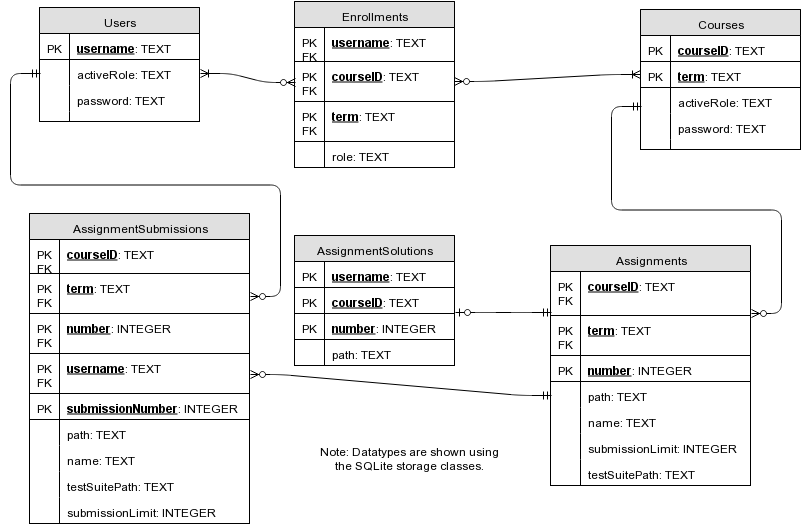
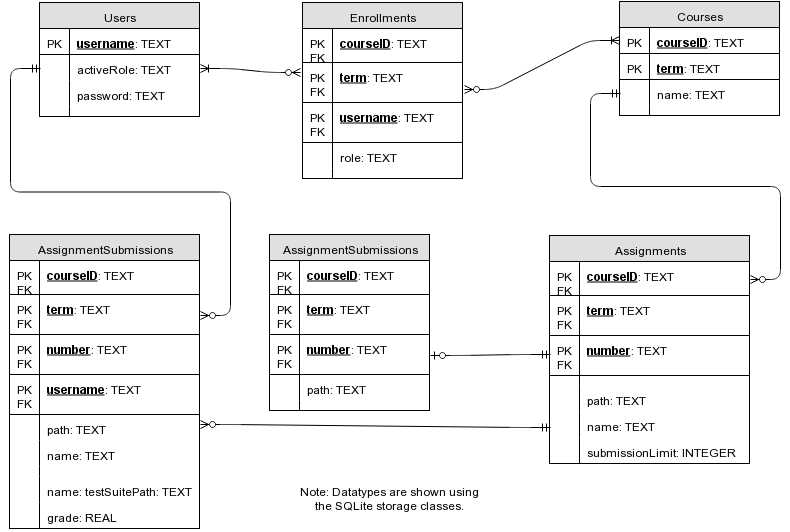
Final DBSchema fix

diff --git a/Documentation/DatabaseSchema.html b/Documentation/DatabaseSchema.html
@@ -11,21 +11,17 @@
     <dl class="DatabaseSchema">
 
         <dt>User</dt>
-            <dd><b>Description:</b>    </dd>   
+            <dd><b>Description: A student, marker, or instructor.</b>    </dd>   
                      
             <dd><b>Primary Key:</b>     
                 <ul>
-                    <li></li>    
+                    <li>username</li>    
                 </ul>
-            </dd>
-            <dd><b>Referential Constraints:</b> 
-                <ul>
-                    <li></li>    
-                </ul> 
             </dd>
             <dd><b>Additional Fields:</b>
                 <ul>
-                    <li></li>    
+                    <li>activeRole</li>
+		    <li>password</li>    
                 </ul> 
              </dd>
 
@@ -33,17 +29,14 @@
             <dd><b>Description:</b>     </dd>            
             <dd><b>Primary Key:</b>     
                 <ul>
-                    <li></li>    
-                </ul> 
-            </dd>
-            <dd><b>Referential Constraints:</b>  
-                <ul>
-                    <li></li>    
+                    <li>courseID</li>
+                    <li>term</li>   
                 </ul> 
             </dd>
             <dd><b>Additional Fields:</b>     
                 <ul>
-                    <li></li>    
+                    <li></li>   
+                    <li>name</li>   
                 </ul> 
             </dd>
             
@@ -54,7 +47,7 @@
                     <li></li>    
                 </ul> 
             </dd>
-            <dd><b>Referential Constraints:</b>  
+            <dd><b>Foreign Keys:</b>  
                 <ul>
                     <li></li>    
                 </ul> 
@@ -72,7 +65,7 @@
                     <li></li>    
                 </ul> 
             </dd>
-            <dd><b>Referential Constraints:</b> 
+            <dd><b>Foreign Keys:</b> 
                 <ul>
                     <li></li>    
                 </ul> 
@@ -90,7 +83,7 @@
                     <li></li>    
                 </ul> 
             </dd>
-            <dd><b>Referential Constraints:</b>  
+            <dd><b>Foreign Keys:</b>  
                 <ul>
                     <li></li>    
                 </ul> 
@@ -108,7 +101,7 @@
                     <li></li>    
                 </ul> 
             </dd>
-            <dd><b>Referential Constraints:</b>  
+            <dd><b>Foreign Keys:</b>  
                 <ul>
                     <li></li>    
                 </ul> 
